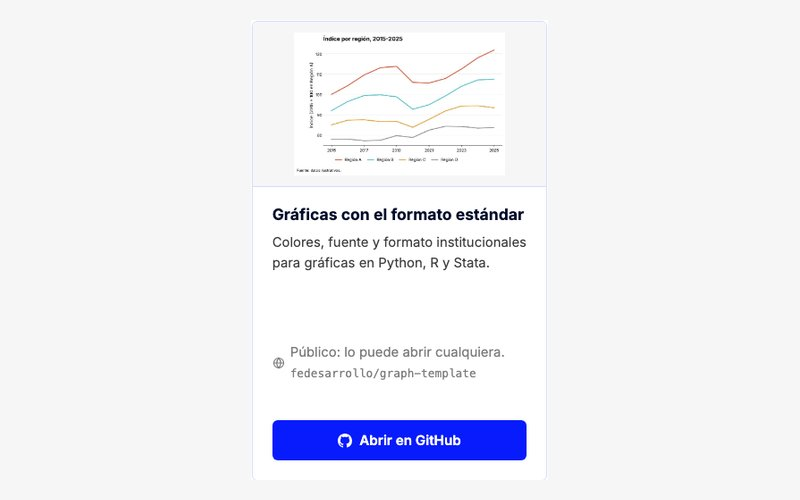
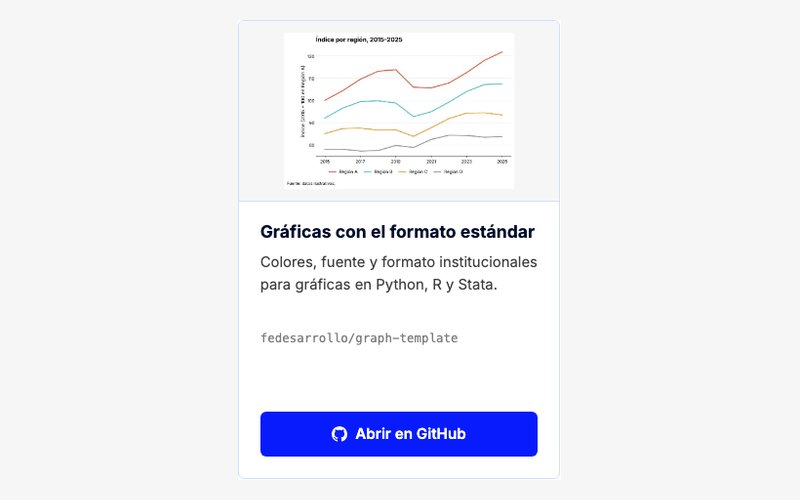
Ajustar el portal: tutorial junto a herramientas y encabezado limpio
- El botón del tutorial queda al lado de "Herramientas internas".
- Las tarjetas ya no indican si el repositorio es público o privado.
- Debajo del logo queda solo la frase de bienvenida.
- Captura del paso 1 del tutorial con la tarjeta actual.

diff --git a/app.js b/app.js
@@ -22,7 +22,6 @@ const HERRAMIENTAS = [
     repo: 'plantilla-documento-politica',
     image: 'assets/img/portal/plantilla.jpg',
     contain: true,
-    private: true,
   },
   {
     name: 'Gráficas con el formato estándar',
@@ -30,21 +29,17 @@ const HERRAMIENTAS = [
     repo: 'graph-template',
     image: 'assets/img/portal/graficas.jpg',
     contain: true,
-    private: false,
   },
   {
     name: 'Banner de seminarios',
     description: 'Banner de una diapositiva para anunciar los Seminarios de Investigación.',
     repo: 'banner-fedesarrollo',
     image: 'assets/img/portal/banner.jpg',
-    private: true,
   },
 ];
 
 /* ── Íconos ──────────────────────────────────────────── */
 
-const ICON_LOCK = '<svg viewBox="0 0 16 16" fill="currentColor" aria-hidden="true"><path d="M4 7V5a4 4 0 1 1 8 0v2h.5A1.5 1.5 0 0 1 14 8.5v5a1.5 1.5 0 0 1-1.5 1.5h-9A1.5 1.5 0 0 1 2 13.5v-5A1.5 1.5 0 0 1 3.5 7H4Zm1.5 0h5V5a2.5 2.5 0 0 0-5 0v2Z"/></svg>';
-const ICON_GLOBE = '<svg viewBox="0 0 16 16" fill="none" stroke="currentColor" stroke-width="1.4" aria-hidden="true"><circle cx="8" cy="8" r="6.3"/><path d="M1.7 8h12.6M8 1.7c1.8 1.9 2.6 4 2.6 6.3S9.8 12.4 8 14.3C6.2 12.4 5.4 10.3 5.4 8S6.2 3.6 8 1.7Z"/></svg>';
 const ICON_GITHUB = '<svg viewBox="0 0 16 16" fill="currentColor" aria-hidden="true"><path d="M8 0C3.58 0 0 3.58 0 8c0 3.54 2.29 6.53 5.47 7.59.4.07.55-.17.55-.38 0-.19-.01-.82-.01-1.49-2.01.37-2.53-.49-2.69-.94-.09-.23-.48-.94-.82-1.13-.28-.15-.68-.52-.01-.53.63-.01 1.08.58 1.23.82.72 1.21 1.87.87 2.33.66.07-.52.28-.87.51-1.07-1.78-.2-3.64-.89-3.64-3.95 0-.87.31-1.59.82-2.15-.08-.2-.36-1.02.08-2.12 0 0 .67-.21 2.2.82.64-.18 1.32-.27 2-.27.68 0 1.36.09 2 .27 1.53-1.04 2.2-.82 2.2-.82.44 1.1.16 1.92.08 2.12.51.56.82 1.27.82 2.15 0 3.07-1.87 3.75-3.65 3.95.29.25.54.73.54 1.48 0 1.07-.01 1.93-.01 2.2 0 .21.15.46.55.38A8.01 8.01 0 0 0 16 8c0-4.42-3.58-8-8-8Z"/></svg>';
 
 /* Ilustraciones de los dashboards: gráficas de muestra con la paleta de marca. */
@@ -94,16 +89,13 @@ function toolCard(tool) {
   const media = tool.image
     ? `<div class="card-media${tool.contain ? ' card-media--contain' : ''}"><img src="${escapeHtml(tool.image)}" alt="Vista previa: ${escapeHtml(tool.name)}" loading="lazy"></div>`
     : `<div class="card-media"><div class="tree">${tool.tree.join('\n')}</div></div>`;
-  const access = tool.private
-    ? `${ICON_LOCK}<span><strong>Privado.</strong> Necesitas tu cuenta de la organización.<code>${ORG}/${repo}</code></span>`
-    : `${ICON_GLOBE}<span><strong>Público.</strong> Lo puede abrir cualquiera.<code>${ORG}/${repo}</code></span>`;
   return `
     <a class="card" href="https://github.com/${ORG}/${repo}" target="_blank" rel="noopener">
       ${media}
       <div class="card-body">
         <h3>${escapeHtml(tool.name)}</h3>
         <p>${escapeHtml(tool.description)}</p>
-        <p class="access">${access}</p>
+        <p class="repo"><code>${ORG}/${repo}</code></p>
         <span class="btn">${ICON_GITHUB}Abrir en GitHub</span>
       </div>
     </a>`;
@@ -122,7 +114,64 @@ function dashboardCard(dash) {
     : `<div class="card">${body}</div>`;
 }
 
+/* ── Tutorial ────────────────────────────────────────────
+   Se abre solo en las dos primeras visitas de cada persona (se cuenta en el
+   navegador) y no se puede cerrar hasta llegar al último paso.            */
+
+const TUTORIAL_KEY = 'fede-portal-tutorial-visto';
+const TUTORIAL_VECES = 2;
+
+function vecesVisto() {
+  try { return parseInt(localStorage.getItem(TUTORIAL_KEY), 10) || 0; } catch { return 0; }
+}
+function marcarVisto() {
+  try { localStorage.setItem(TUTORIAL_KEY, String(vecesVisto() + 1)); } catch { /* sin almacenamiento */ }
+}
+
+function initTutorial() {
+  const dialog = document.getElementById('tutorial');
+  if (!dialog || typeof dialog.showModal !== 'function') return;
+
+  const steps = dialog.querySelectorAll('.tutorial-steps li');
+  const dots = dialog.querySelectorAll('.tutorial-dots span');
+  const prev = document.getElementById('tutorial-prev');
+  const next = document.getElementById('tutorial-next');
+  const count = document.getElementById('tutorial-count');
+  let paso = 0;
+  let terminado = false;
+
+  function mostrar(i) {
+    paso = i;
+    steps.forEach((s, j) => s.classList.toggle('is-active', j === i));
+    dots.forEach((d, j) => d.classList.toggle('is-on', j <= i));
+    count.textContent = `Paso ${i + 1} de ${steps.length}`;
+    prev.disabled = i === 0;
+    next.textContent = i === steps.length - 1 ? 'Entendido' : 'Siguiente';
+  }
+
+  function abrir() {
+    terminado = false;
+    mostrar(0);
+    dialog.showModal();
+    next.focus();
+  }
+
+  prev.addEventListener('click', () => { if (paso > 0) mostrar(paso - 1); });
+  next.addEventListener('click', () => {
+    if (paso < steps.length - 1) { mostrar(paso + 1); return; }
+    terminado = true;
+    marcarVisto();
+    dialog.close();
+  });
+  // Escape no cierra el tutorial hasta que se termina.
+  dialog.addEventListener('cancel', (e) => { if (!terminado) e.preventDefault(); });
+
+  document.getElementById('tutorial-open').addEventListener('click', abrir);
+  if (vecesVisto() < TUTORIAL_VECES) abrir();
+}
+
 document.addEventListener('DOMContentLoaded', () => {
   document.getElementById('dashboards-grid').innerHTML = DASHBOARDS.map(dashboardCard).join('');
   document.getElementById('tools-grid').innerHTML = HERRAMIENTAS.map(toolCard).join('');
+  initTutorial();
 });

diff --git a/styles.css b/styles.css
@@ -42,8 +42,10 @@ img { display: block; max-width: 100%; }
 /* Encabezado: solo el logo, centrado */
 .site-header {
   display: flex;
-  justify-content: center;
-  padding: 40px 16px 32px;
+  flex-direction: column;
+  align-items: center;
+  text-align: center;
+  padding: 40px 16px 36px;
   border-bottom: 1px solid var(--fede-azul-claro);
 }
 .logo { width: 260px; height: auto; }
@@ -51,71 +53,81 @@ img { display: block; max-width: 100%; }
 .page {
   max-width: 1080px;
   margin: 0 auto;
-  padding: 48px 24px 72px;
+  padding: 8px 24px 72px;
 }
 
-/* Introducción y pasos */
-.intro h1 {
-  color: var(--fede-texto);
-  font-family: var(--font-titulos);
-  font-size: 2.1rem;
-  font-weight: 700;
-  line-height: 1.2;
-}
-.intro > p {
-  margin-top: 8px;
+.site-header p {
+  margin-top: 22px;
+  max-width: 560px;
   color: var(--fede-gris-texto);
   font-size: 1.05rem;
 }
 
-.steps {
-  display: grid;
-  grid-template-columns: repeat(3, 1fr);
-  gap: 16px;
-  margin-top: 24px;
-  list-style: none;
-  counter-reset: paso;
-}
-.steps li {
-  counter-increment: paso;
+.block-head {
   display: flex;
-  flex-direction: column;
-  background: var(--fede-gris);
+  align-items: center;
+  justify-content: space-between;
+  gap: 16px;
+  flex-wrap: wrap;
+  margin-bottom: 20px;
+}
+.block .block-head h2 { margin-bottom: 0; }
+.btn-tutorial {
+  border: 1px solid var(--fede-azul);
+  background: #fff;
+  color: var(--fede-azul);
+  cursor: pointer;
+  font-family: inherit;
+}
+.btn-tutorial:hover { background: var(--fede-azul); color: #fff; }
+
+/* Tutorial emergente */
+.tutorial {
+  width: min(680px, calc(100% - 32px));
+  margin: auto;
+  padding: 28px 28px 24px;
+  border: none;
   border-radius: var(--radius);
-  overflow: hidden;
-  font-size: .92rem;
   color: var(--fede-texto);
 }
-.steps img {
+.tutorial::backdrop { background: rgba(1, 13, 43, .62); }
+.tutorial h2 {
+  font-family: var(--font-titulos);
+  font-size: 1.4rem;
+  margin: 2px 0 16px;
+}
+.tutorial-count { color: var(--fede-azul); font-weight: 600; font-size: .9rem; }
+.tutorial-steps { list-style: none; }
+.tutorial-steps li { display: none; }
+.tutorial-steps li.is-active { display: block; }
+.tutorial-steps img {
   width: 100%;
   aspect-ratio: 16 / 10;
   object-fit: cover;
   object-position: top left;
-  border-bottom: 1px solid var(--fede-azul-claro);
+  border: 1px solid var(--fede-azul-claro);
+  border-radius: var(--radius);
 }
-.steps span {
-  position: relative;
-  display: block;
-  padding: 14px 16px 16px 54px;
+.tutorial-steps p { margin-top: 14px; font-size: 1.02rem; color: var(--fede-gris-texto); }
+.tutorial-steps strong { color: var(--fede-texto); }
+
+.tutorial-nav {
+  display: flex;
+  align-items: center;
+  justify-content: space-between;
+  gap: 12px;
+  margin-top: 22px;
 }
-.steps span::before {
-  content: counter(paso);
-  position: absolute;
-  left: 16px;
-  top: 13px;
-  display: grid;
-  place-items: center;
-  width: 26px;
-  height: 26px;
-  border-radius: 50%;
-  background: var(--fede-azul);
-  color: #fff;
-  font-weight: 700;
-  font-size: .85rem;
-}
+.tutorial-nav .btn { border: none; cursor: pointer; font-family: inherit; min-width: 120px; }
+.btn-ghost { background: var(--fede-gris); color: var(--fede-texto); }
+.btn-ghost:disabled { visibility: hidden; }
+.tutorial-dots { display: flex; gap: 8px; }
+.tutorial-dots span { width: 9px; height: 9px; border-radius: 50%; background: var(--fede-azul-claro); }
+.tutorial-dots span.is-on { background: var(--fede-azul); }
 
 /* Bloques */
 .block { margin-top: 56px; }
+.page > section.block:first-of-type { margin-top: 36px; }
 .block h2 {
   color: var(--fede-texto);
   font-family: var(--font-titulos);
@@ -212,16 +224,12 @@ a.card:hover .btn { background: var(--fede-titulo-iv); }
 .card-body p { font-size: .93rem; flex: 1; }
 .card-body .btn { margin-top: 10px; align-self: stretch; }
 
-.access {
-  display: flex;
-  align-items: flex-start;
-  gap: 6px;
+.repo code {
+  font-family: ui-monospace, SFMono-Regular, Menlo, monospace;
+  font-size: .78rem;
   color: var(--fede-gris-suave);
-  font-size: .82rem;
+  word-break: break-all;
 }
-.access svg { width: 14px; height: 14px; flex: none; margin-top: 3px; }
-.access strong { color: var(--fede-texto); font-weight: 600; }
-.access code { display: block; font-family: ui-monospace, SFMono-Regular, Menlo, monospace; font-size: .78rem; word-break: break-all; }
 
 /* Árbol de carpetas para el template de proyecto */
 .tree {
@@ -255,14 +263,14 @@ a.card:hover .btn { background: var(--fede-titulo-iv); }
 @media (max-width: 900px) {
   .grid-3 { grid-template-columns: 1fr 1fr; }
   .feature { grid-template-columns: 1fr; }
-  .steps { grid-template-columns: 1fr; }
 }
 
 @media (max-width: 600px) {
   .logo { width: 200px; }
   .page { padding: 36px 16px 56px; }
-  .intro h1 { font-size: 1.7rem; }
   .grid-2, .grid-3 { grid-template-columns: 1fr; }
   .feature-body { padding: 22px 20px; }
   .site-footer { padding: 20px 16px 32px; }
+  .tutorial { padding: 22px 18px 18px; }
+  .tutorial-nav .btn { min-width: 0; padding: 10px 14px; }
 }

diff --git a/index.html b/index.html
@@ -22,31 +22,45 @@
 
   <header class="site-header">
     <img class="logo" src="assets/img/portal/logo-fedesarrollo.png" width="640" height="118" alt="Fedesarrollo">
+    <p>Todo lo que el equipo usa a diario, en un solo lugar.</p>
   </header>
 
   <main class="page">
 
-    <section class="intro">
-      <h1>Portal interno</h1>
-      <p>Todo lo que el equipo usa a diario, en un solo lugar. Haz clic en la tarjeta de lo que necesitas.</p>
-      <ol class="steps">
-        <li>
-          <img src="assets/img/portal/paso-1.jpg" alt="Una tarjeta del portal con su botón Abrir en GitHub" loading="lazy">
-          <span><strong>Elige</strong> una tarjeta y haz clic en su botón.</span>
+
+    <!-- Tutorial: se muestra las dos primeras visitas y no se puede cerrar hasta el último paso -->
+    <dialog class="tutorial" id="tutorial" aria-labelledby="tutorial-title">
+      <p class="tutorial-count" id="tutorial-count"></p>
+      <h2 id="tutorial-title">Cómo usar el portal</h2>
+      <ol class="tutorial-steps">
+        <li class="is-active">
+          <img src="assets/img/portal/paso-1.jpg" alt="Una tarjeta del portal con su botón Abrir en GitHub">
+          <p><strong>Elige</strong> una tarjeta y haz clic en su botón azul.</p>
         </li>
         <li>
-          <img src="assets/img/portal/paso-2.jpg" alt="Pantalla de inicio de sesión de GitHub" loading="lazy">
-          <span><strong>Inicia sesión</strong> en GitHub con tu cuenta de Fedesarrollo si te la pide.</span>
+          <img src="assets/img/portal/paso-2.jpg" alt="Pantalla de inicio de sesión de GitHub">
+          <p><strong>Inicia sesión</strong> en GitHub con tu cuenta de Fedesarrollo si te la pide.</p>
         </li>
         <li>
-          <img src="assets/img/portal/paso-3.jpg" alt="Página de un repositorio en GitHub con su README" loading="lazy">
-          <span>Baja hasta el <strong>README</strong> del repositorio: ahí están las instrucciones.</span>
+          <img src="assets/img/portal/paso-3.jpg" alt="Página de un repositorio en GitHub con su README">
+          <p>Baja hasta el <strong>README</strong> del repositorio: ahí están las instrucciones paso a paso.</p>
         </li>
       </ol>
-    </section>
+      <div class="tutorial-nav">
+        <button type="button" class="btn btn-ghost" id="tutorial-prev">Anterior</button>
+        <div class="tutorial-dots" aria-hidden="true"><span></span><span></span><span></span></div>
+        <button type="button" class="btn" id="tutorial-next">Siguiente</button>
+      </div>
+    </dialog>
 
     <section class="block">
-      <h2>Herramientas internas</h2>
+      <div class="block-head">
+        <h2>Herramientas internas</h2>
+        <button type="button" class="btn btn-tutorial" id="tutorial-open">
+          <svg viewBox="0 0 16 16" fill="none" stroke="currentColor" stroke-width="1.6" aria-hidden="true"><circle cx="8" cy="8" r="6.6"/><path d="M6.3 6.2a1.8 1.8 0 1 1 2.5 1.7c-.5.2-.8.6-.8 1.1v.5"/><circle cx="8" cy="11.6" r=".4" fill="currentColor"/></svg>
+          Ver el tutorial
+        </button>
+      </div>
       <div class="grid grid-3" id="tools-grid"></div>
     </section>
 
